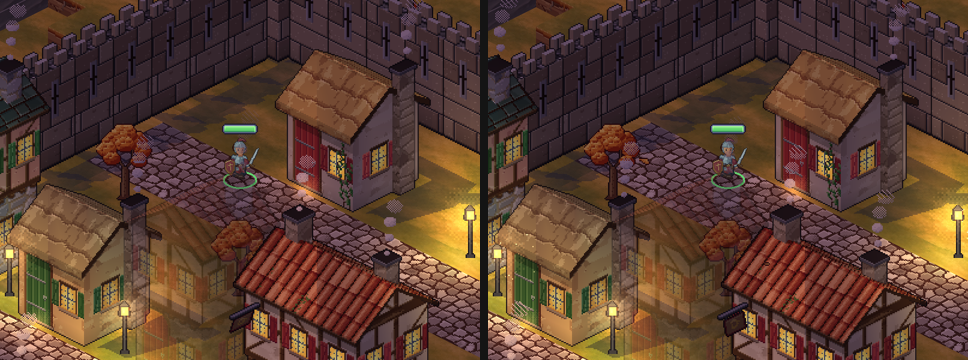
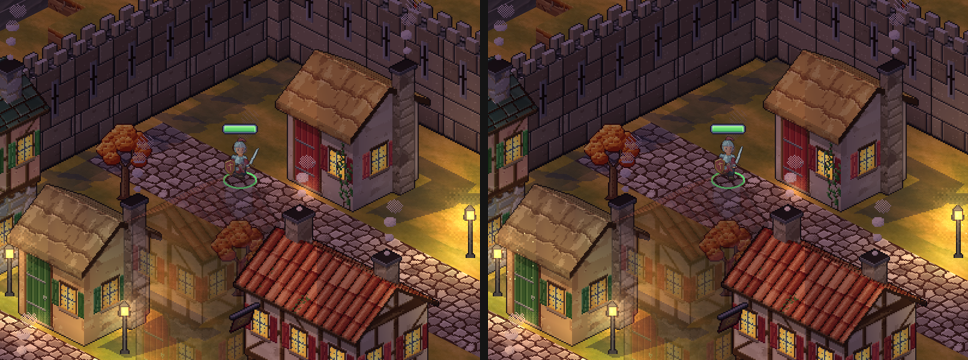
Let the river's mist catch the light, and add the fight-in-place shot
river_steam is faint by design (alpha at most 60 of 255), and in the
dusk's light it was lost on the water, so it's drawn whole and additively,
as a glow is. The board links a shot of the ford's fight in place, from an
ARCBOX_STAGE=1 run, with the bridge whole, and the ambient shots are retaken.

Claude-Session: https://claude.ai/code/session_01UZNTTTSTVdmDpmHb6bGDGn

diff --git a/games/Tactics/Tactics.Presentation/World/AmbientPlan.cs b/games/Tactics/Tactics.Presentation/World/AmbientPlan.cs
@@ -308,8 +308,11 @@ public sealed class AmbientPlan
         {
             foreach (var (tile, spot, h, _) in _steam)
             {
-                if (InView(spot, 48))
-                    result.Add(Strip(steamAsset, steamKind, steamVariant, tile, spot, (int)(clock * steamAsset.Fps) + h, steamKind == "river_steam" ? 1 : SteamAlpha, (h & 2) == 0));
+                if (!InView(spot, 48))
+                    continue;
+                var plume = Strip(steamAsset, steamKind, steamVariant, tile, spot, (int)(clock * steamAsset.Fps) + h, steamKind == "river_steam" ? 1 : SteamAlpha, (h & 2) == 0);
+                // The river's mist is faint by design (alpha at most 60 of 255): in the dusk's light it was lost on the water, so it catches the light as a glow does.
+                result.Add(steamKind == "river_steam" ? plume with { Add = true } : plume);
             }
         }
 

diff --git a/docs/superpowers/plans/overworld-issue-board.md b/docs/superpowers/plans/overworld-issue-board.md
@@ -70,7 +70,7 @@ In `fight-bridge-cut-and-soft-ground.png` and both ford shots, the planks stop i
 **Done when:** the crossing reads as a whole structure from every side, with no clipped units.
 **What it was:** neither a block nor a stamp edge. `bridge_timber.png` is 192×128 for a 96×64 prop, and the painter took a sprite's size in texels as its source, so it drew the top-left quarter at twice the size, cut off straight down and across, and that quarter went over the unit beside it. Drawn whole, the deck then sorted on its own tile and went over anyone on the tiles it spans.
 **Fixed (`799e8f70`):** the painter samples one whole frame of a texture, whatever its size. A low prop wider than a tile (the three bridge spans) is cut into quads half a tile wide, split along its run's tile edges, each sorted on the tile it lies over: in the world, a fight in place and a plain board. A quad clamped to a triangle no longer crosses nothing in `WorldPlan`'s test.
-**Proved by:** `OverlayPictureTests`: the bridge is drawn whole, a unit on each of its tiles stands over it and one behind it is under it, on the region and on the map, and the ford's walks are still true painter's order. Shots: [ford](../reports/tv-drawing-polish/ow08-ford-bridge-before-after.png) and [fight](../reports/tv-drawing-polish/ow08-fight-bridge-before-after.png), before and after. Issue #82 replaces the bridge, and nothing here repaints it. Its banks are at different heights, so a unit wading the ford beside the high bank's abutment is partly behind it, which is right for that art.
+**Proved by:** `OverlayPictureTests`: the bridge is drawn whole, a unit on each of its tiles stands over it and one behind it is under it, on the region and on the map, and the ford's walks are still true painter's order. Shots: [ford](../reports/tv-drawing-polish/ow08-ford-bridge-before-after.png) and [fight](../reports/tv-drawing-polish/ow08-fight-bridge-before-after.png), before and after, and the [fight in place](../reports/tv-drawing-polish/ow08-fight-in-place-after.png) from an `ARCBOX_STAGE=1` run. Issue #82 replaces the bridge, and nothing here repaints it. Its banks are at different heights, so a unit wading the ford beside the high bank's abutment is partly behind it, which is right for that art.
 
 ### OW-09 · The ford's ground looks soft and blotchy · `needs user`
 Against the crisp town kit, the ash reads as an airbrushed smear, and the fight's ground is orange and olive camouflage. It's the worst-looking part of the region. Check whether the `*_ford` materials are too soft or too low in contrast, then repaint with crisper tops. Show the user a before and after.
@@ -127,7 +127,7 @@ Animals avoid props only through `FaunaRange.Behind`. Sort them properly, or kee
 - **OW-18 · REDLINE e2e · `blocked`:** needs Playwright. The user said not now.
 - **OW-19 · Second hardware check · `todo`:** `local-hardware-check-2.md` hasn't run. `ARCBOX_RESTART=kill` and forced `ARCBOX_DROP_SIGNALS` have no confirmed pass.
 - **OW-20 · Stale docs · `done`:** cloud handoff §3, §5, §8 items 6, 9, 10. `2026-11-01-ashen-ford-handoff.md`. Report `2026-11-02-tactics-overworld.md` lines 28, 42, 107, 223, 233, 292. `environmental-tiles/README.md` and milestones B and C. `tools/tactics-world/README.md:176`. `docs/tv-host.md:353` (197 buildings now). The world dressing plan's `TallProps.cs`, which wasn't kept. `local-hardware-check-2.md:33`. The creature branch's `overworld-art-review` README "Current integration boundary". The named entries are updated, `PropFade` replaces obsolete `TallProps` references, and the painting guide documents `--edit-props`. See the stability report for verification.
-- **OW-21 · Ambient · `done`, issue #78:** birds, leaves, embers and motes weren't built, the chimney path in `AmbientPlan.cs` matched no prop, and the new `river_steam` art was unused. Now (`5eaad666`, wired in `48589e34`) leaves fall from leafy trees in their own colours, embers rise from campfires and torches, motes hang in lamplight at dusk, a bird or a flock crosses the sky now and then (crows at dusk), and the ford's river steams with `river_steam`. All of it is ambient-manifest art, chosen once by hash. The chimney path is gone, since the town kit's buildings smoke for themselves. **Proved by** `AmbientPlanTests` and shots of the [camp](../reports/tv-drawing-polish/ow21-ambient-camp-before-after.png), [river](../reports/tv-drawing-polish/ow21-ambient-river-before-after.png) and [trees](../reports/tv-drawing-polish/ow21-ambient-trees-before-after.png). **Frame time** on lavapipe (Debug, no shots, same machine, before and after): the ford's crossing had a median of 55.6 and 53.3 ms, with render CPU 1.29 both times; a town walk had a median of 96.5 and 97.8 ms, with render CPU 1.74 and 1.82. Lavapipe can't show 16 ms, so the RTX 5080 is still the check (OW-19). The `river_steam` mist is faint by design (alpha at most 60 of 255), so it's drawn at full strength.
+- **OW-21 · Ambient · `done`, issue #78:** birds, leaves, embers and motes weren't built, the chimney path in `AmbientPlan.cs` matched no prop, and the new `river_steam` art was unused. Now (`5eaad666`, wired in `48589e34`) leaves fall from leafy trees in their own colours, embers rise from campfires and torches, motes hang in lamplight at dusk, a bird or a flock crosses the sky now and then (crows at dusk), and the ford's river steams with `river_steam`. All of it is ambient-manifest art, chosen once by hash. The chimney path is gone, since the town kit's buildings smoke for themselves. **Proved by** `AmbientPlanTests` and shots of the [camp](../reports/tv-drawing-polish/ow21-ambient-camp-before-after.png), [river](../reports/tv-drawing-polish/ow21-ambient-river-before-after.png) and [trees](../reports/tv-drawing-polish/ow21-ambient-trees-before-after.png). **Frame time** on lavapipe (Debug, no shots, same machine, before and after): the ford's crossing had a median of 55.6 and 53.3 ms, with render CPU 1.29 both times; a town walk had a median of 96.5 and 97.8 ms, with render CPU 1.74 and 1.82. Lavapipe can't show 16 ms, so the RTX 5080 is still the check (OW-19). The `river_steam` mist is faint by design (alpha at most 60 of 255) and was lost on the water in the dusk's light, so it's drawn whole and additively, catching the light as a glow does.
 - **OW-22 · Place shots · `todo`:** replace `place-*.png` from a real walk after OW-09.
 - **OW-23 · Wall-plug seam · `done`, issue #78:** an unfound hidden path left a notch in its hedge, and a secret door left a faint seam (interactables design §7.8). There were two causes. The overlay painted the open tile's own top back over the plug's sides, and the plug wasn't graded as the world is. The earlier `world: true` changed nothing visible because the notch hid it. Fixed in `59586ff5`. **Proved by** `WallPlugsTests` (a plugged tile against its neighbour, for both) and the [path](../reports/tv-drawing-polish/plug-hedge-path-before-after.png) and [door](../reports/tv-drawing-polish/plug-secret-door-before-after.png) shots.
 
